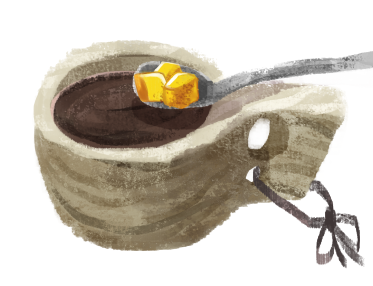
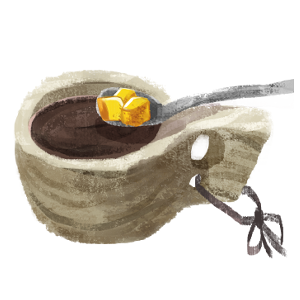
025:商品画像をリサイズして差し替え

diff --git a/src/main/resources/templates/shopping/itemView.html b/src/main/resources/templates/shopping/itemView.html
@@ -30,36 +30,22 @@
 			<button>検索</button>
 		</form>
 
-
-
 		<div class="row">
 
 			<!-- 商品一覧 -->
-			<div class="itemBox ml-30" th:each="item:${items}">
-			
+			<div class="itemBox ml-30 col-3" th:each="item:${items}">
+
 				<img th:src="|/image/${item.image}|" class="itemsImg">
-			
+
 				<p th:text="${item.name}"></p>
 				<p th:text="|${item.price}| + 円"></p>
-				<p>	<a th:href="|/item/${item.id}/detail|">商品の詳細を見る</a></p>
+				<p>
+					<a th:href="|/item/${item.id}/detail|">商品の詳細を見る</a>
+				</p>
 				<p>
 					<a th:href="|cart/add/${item.id}|">カートに追加</a>
 				</p>
 			</div>
-
-
-
-			<!-- 
-                <div class=" box1">
-                    <ul th:each="item:${items}">
-                        <li><img th:src="|/image/${item.image}|" class="itemsImg"></li>
-                        <li th:text="${item.name}"></li>
-                        <li th:text="${item.price}"></li>
-    
-                        <a th:href="|cart/add/${item.id}|">カートに追加</a>
-                    </ul>
-                </div>
-     -->
 		</div>
 	</div>
 

diff --git a/src/main/resources/static/css/main.css b/src/main/resources/static/css/main.css
@@ -39,7 +39,8 @@
 
 /*商品画像の調整*/
 .itemsImg{
-    width: 300px;
+	
+   
 }
 
 .conteiner{
